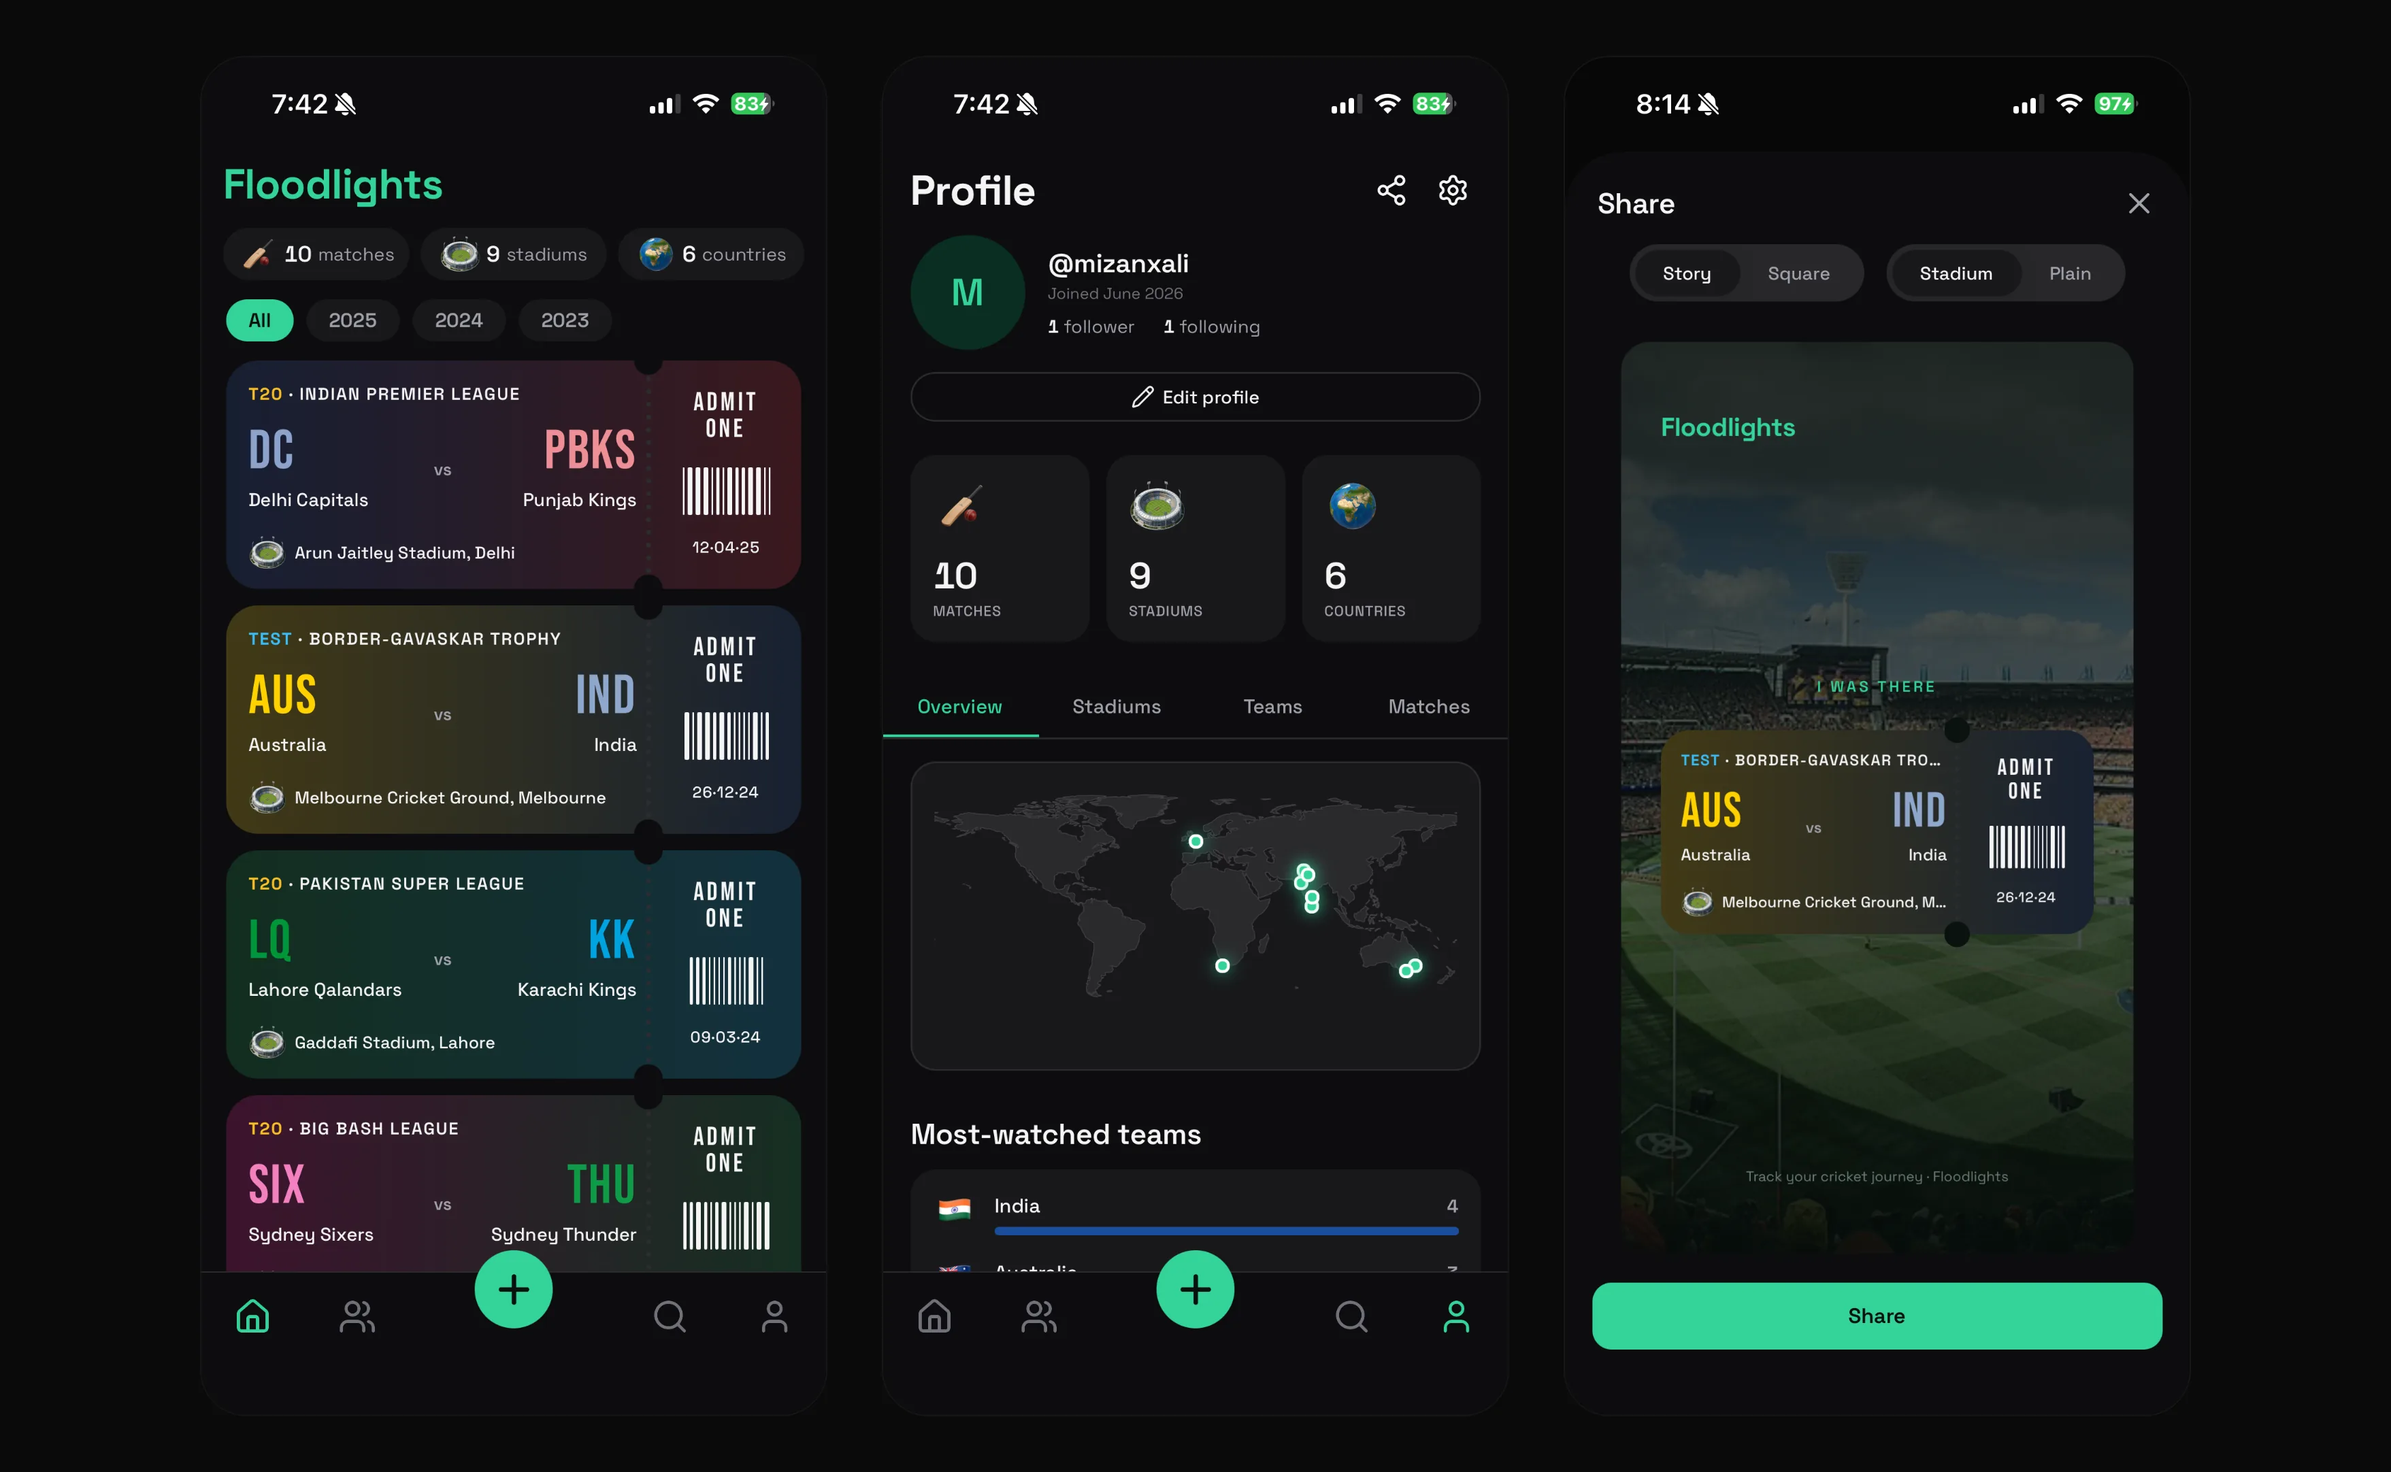
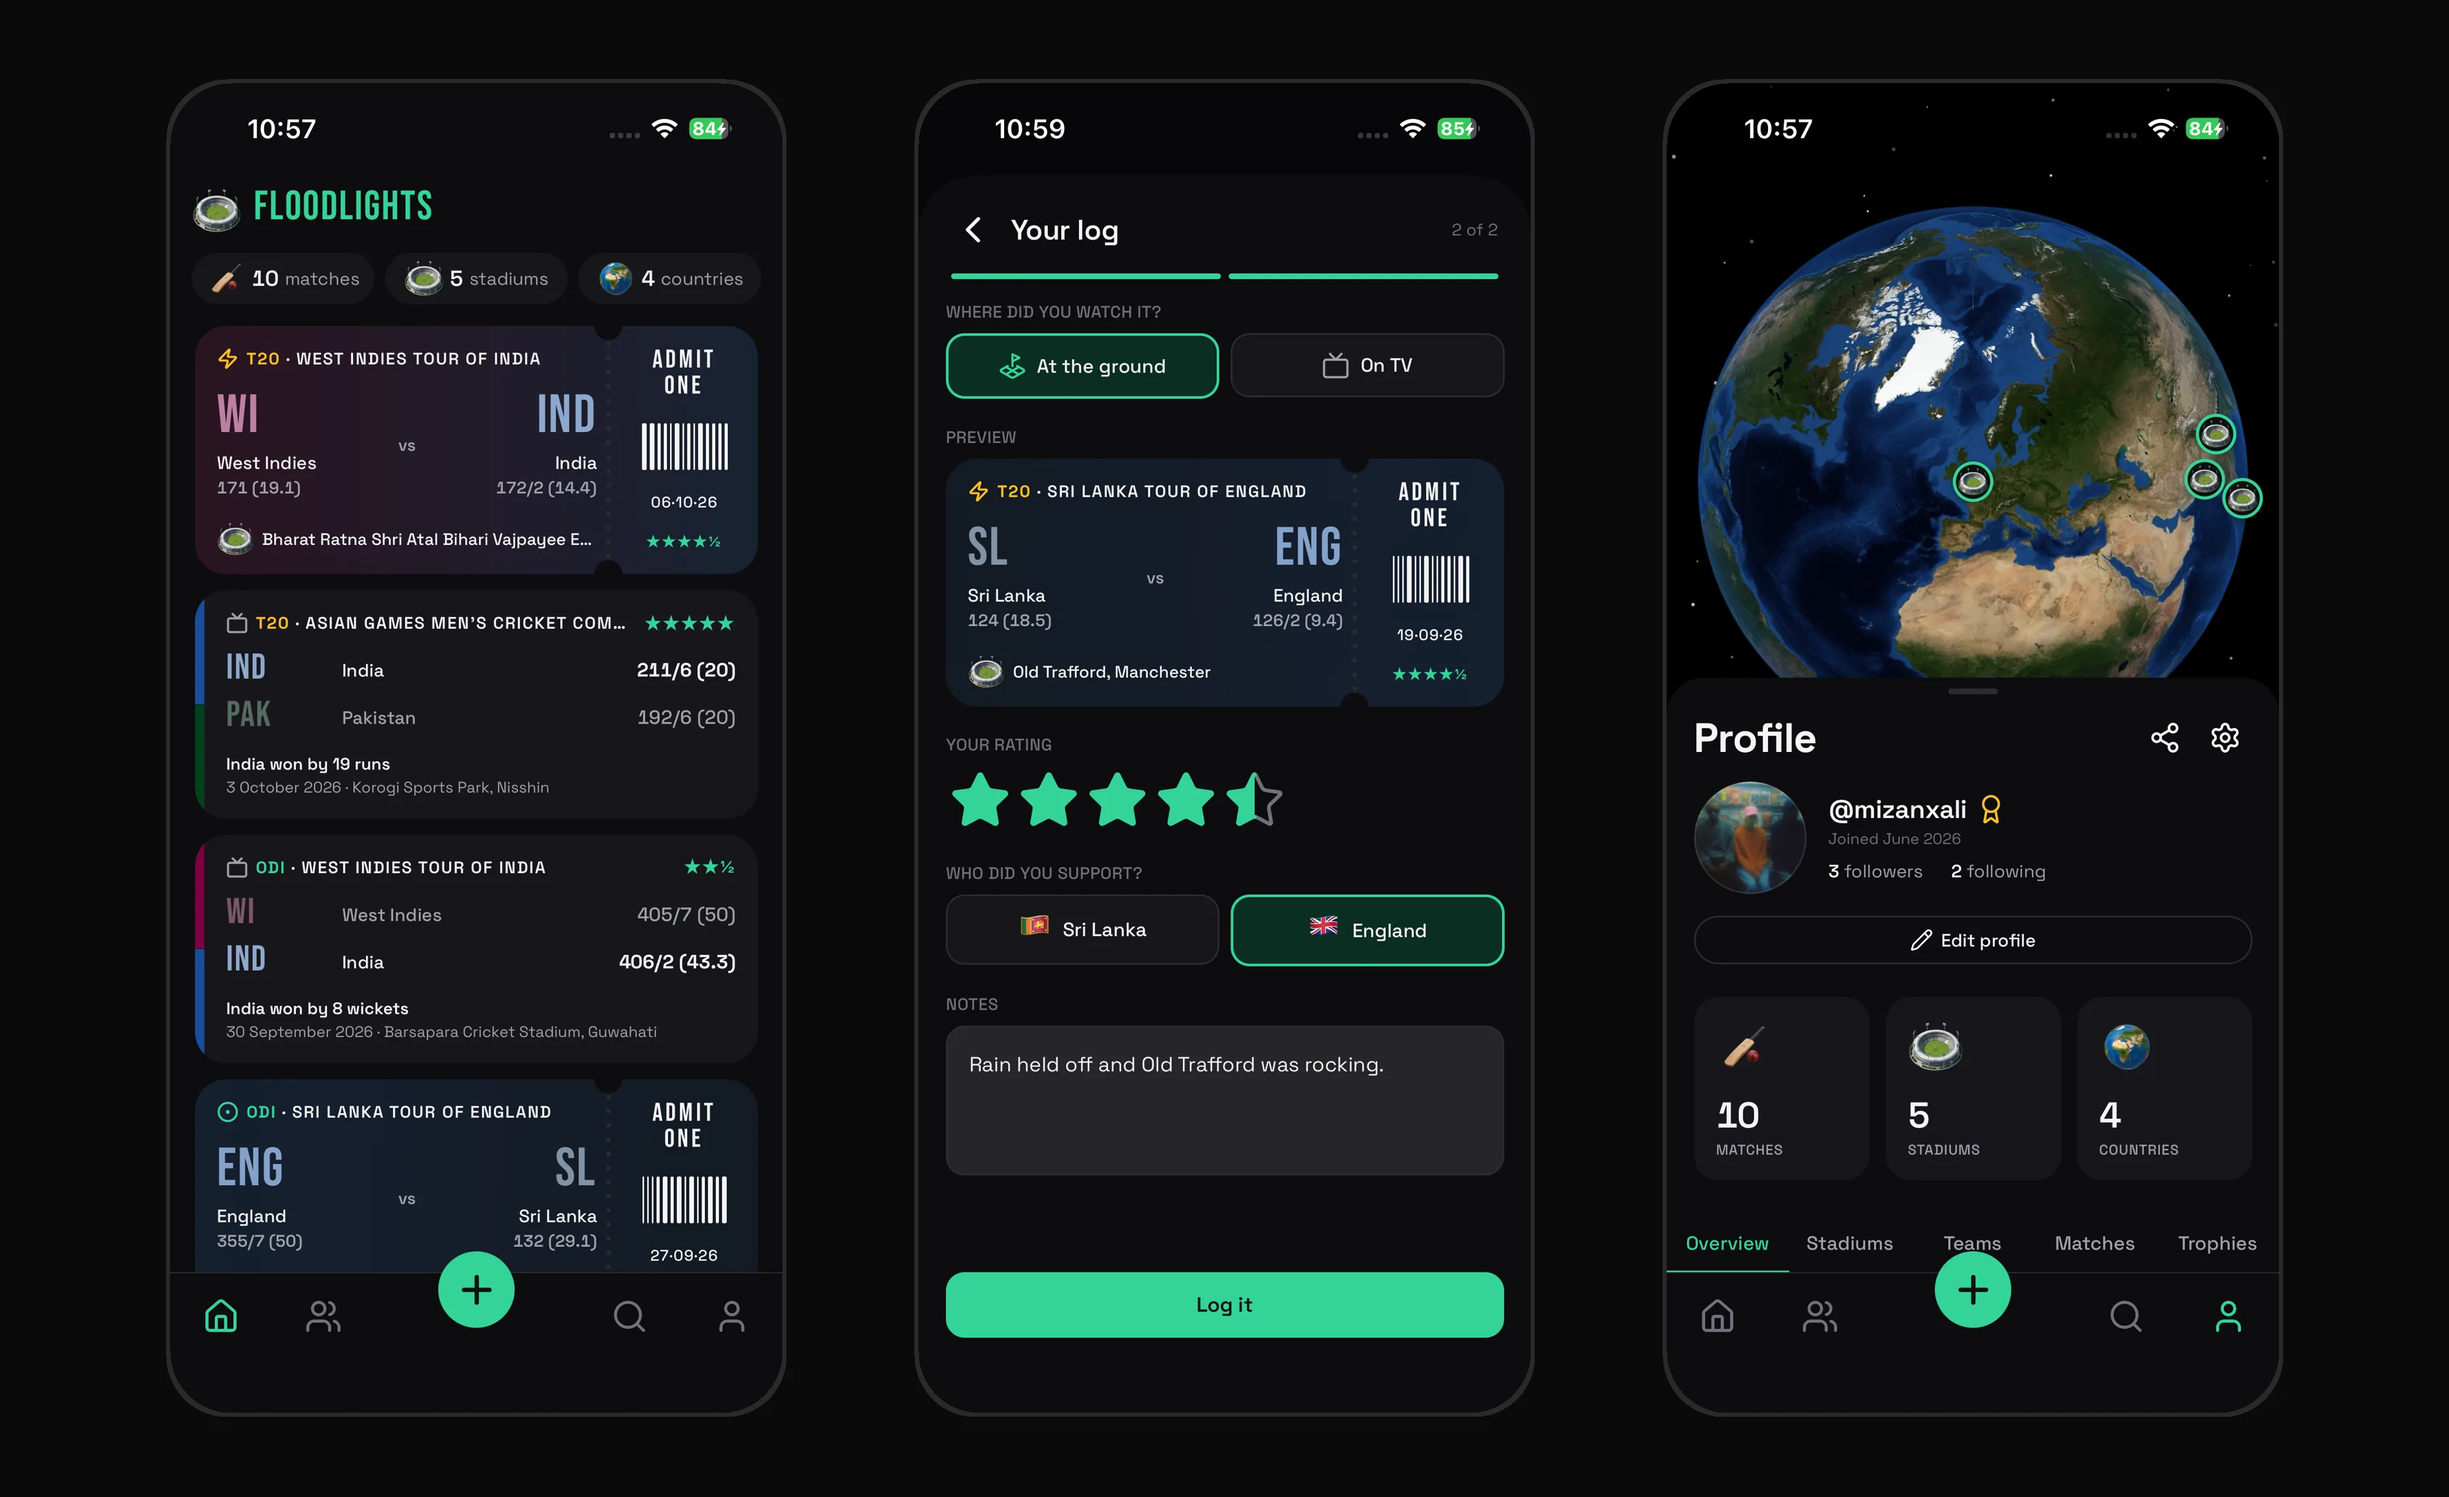
add radius and sex and the city, update floodlights

diff --git a/src/data/personalProjects.ts b/src/data/personalProjects.ts
@@ -4,7 +4,7 @@ export const personalProjects: Project[] = [
   {
     name: "Floodlights",
     description:
-      "Flighty for cricket - mobile app to log every match watched live in a stadium, with a growing world map, stats, and a friends feed",
+      "Letterboxd for cricket - mobile app to log and rate every match you watch, at the ground or on TV, with a stadium map, stats, and a friends feed",
     image: "/floodlights.webp",
     links: [{ label: "Live Site", url: "https://floodlights.mizanxali.com" }, { label: "Google Play", url: "https://play.google.com/store/apps/details?id=com.mizanxali.floodlights" }],
     tech: ["React Native", "Expo", "Hono", "CF Workers", "Supabase", "Postgres", "Drizzle"],
@@ -19,6 +19,28 @@ export const personalProjects: Project[] = [
       { label: "GitHub", url: "https://github.com/mizanxali/visage" },
     ],
     tech: ["Electron", "Node.js", "RetinaFace", "ONNX", "Zustand", "SQLite"],
+  },
+  {
+    name: "Radius",
+    description:
+      "IRL networking app for web3 events - phones find each other over Bluetooth, AI ranks who's worth meeting, and proof-of-meet stamps mint onchain",
+    image: "/radius.webp",
+    links: [
+      { label: "Video", url: "https://x.com/mizanxali/status/2114665885315240449" },
+      { label: "GitHub", url: "https://github.com/mizanxali/radius" },
+    ],
+    tech: ["React Native", "Offline Protocol", "Bluetooth", "Claude API", "CF Workers", "Base"],
+  },
+  {
+    name: "Sex and the City",
+    description:
+      "Comedy dating sim grounded in real survey data - make a character, drop them into a town of 1,000 personas, and watch their month play out",
+    image: "/sex-and-the-city.webp",
+    links: [
+      { label: "Live Site", url: "https://sexandthecity.fun" },
+      { label: "GitHub", url: "https://github.com/mizanxali/sex-and-the-city" },
+    ],
+    tech: ["TypeScript", "Three.js", "Vite", "Logistic Regression", "Claude API", "CF Workers", "D1"],
   },
   {
     name: "Pit Stop",

diff --git a/src/data/tech.ts b/src/data/tech.ts
@@ -52,4 +52,8 @@ export const techMeta: Record<string, TechMeta> = {
   Fasten: { fallback: "FA" },
   Twilio: { iconUrl: "https://api.iconify.design/simple-icons/twilio.svg?color=%23F22F46" },
   "Sarvam AI": { fallback: "SA" },
+  "Claude API": { slug: "claude" },
+  "Three.js": { slug: "threedotjs", color: "white" },
+  D1: { slug: "cloudflare" },
+  "Logistic Regression": { fallback: "LR" },
 };
